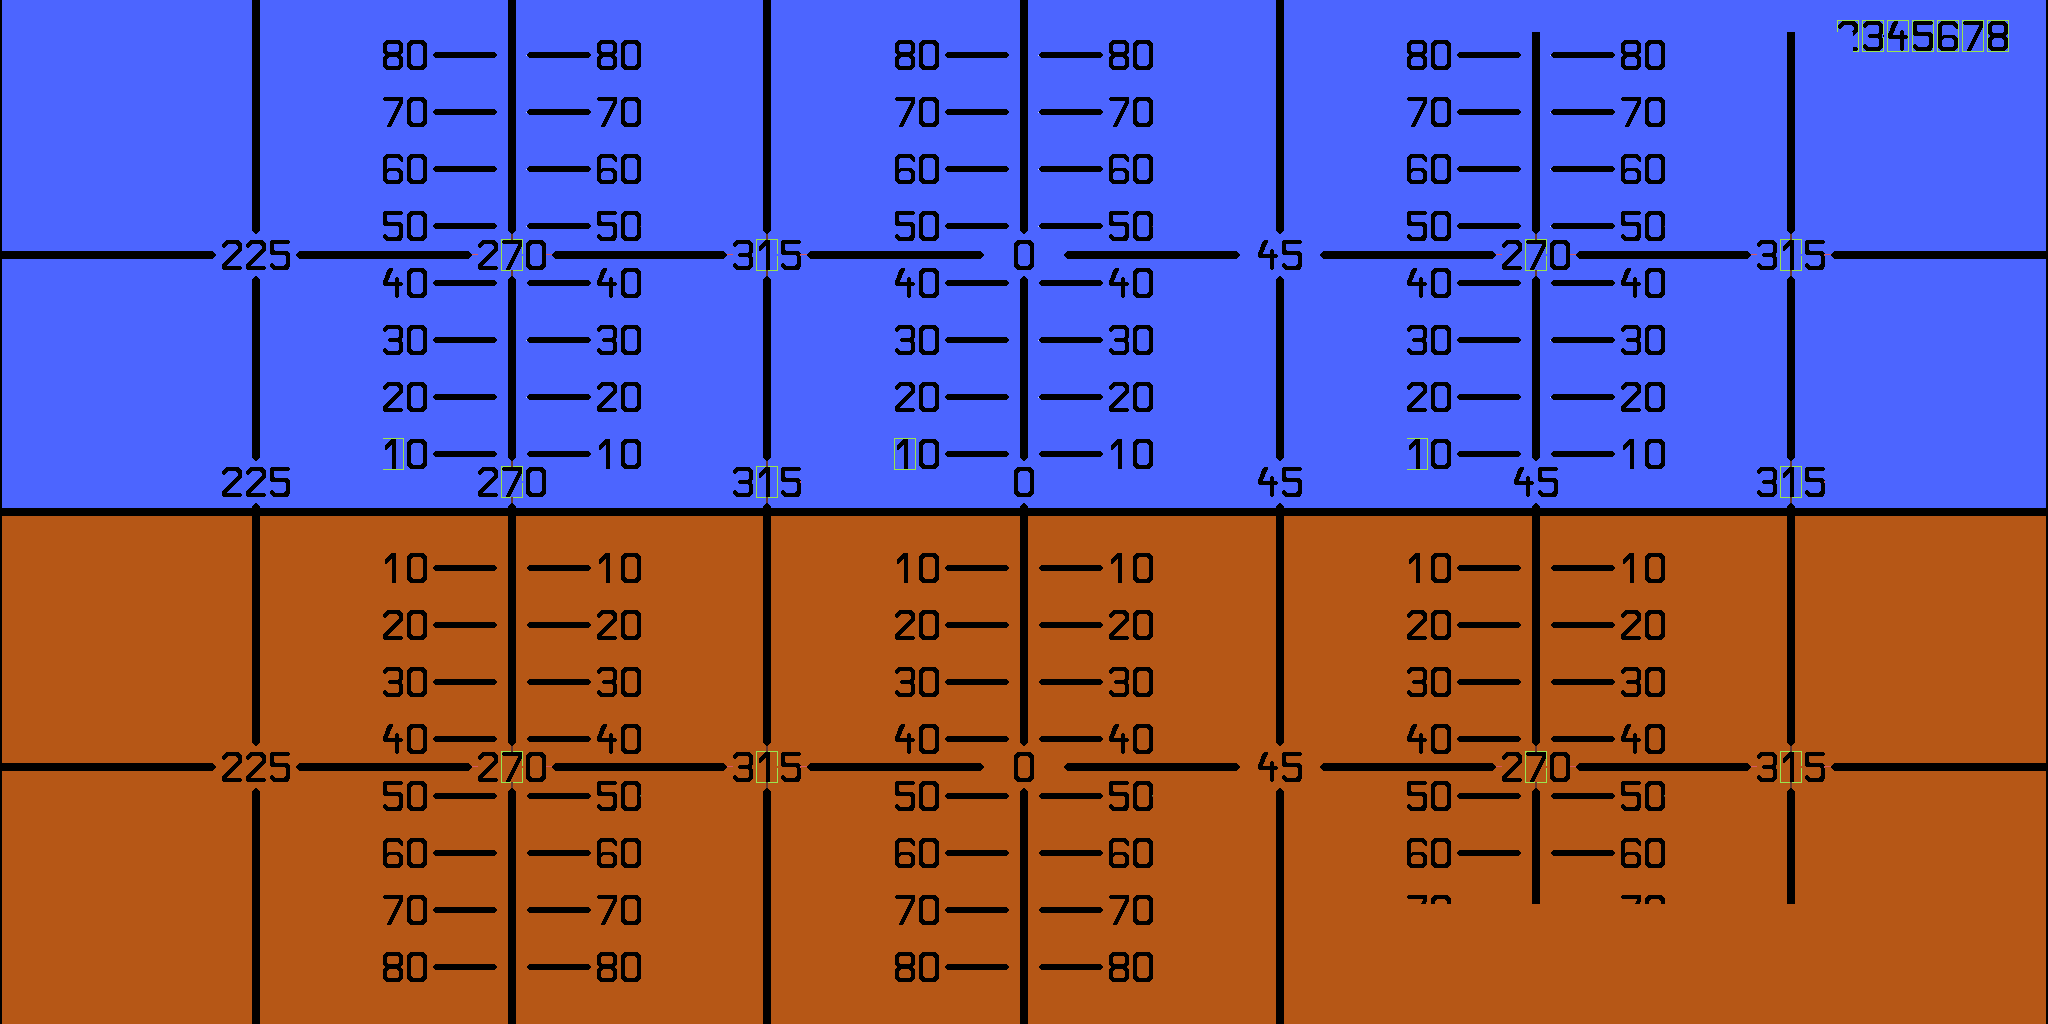
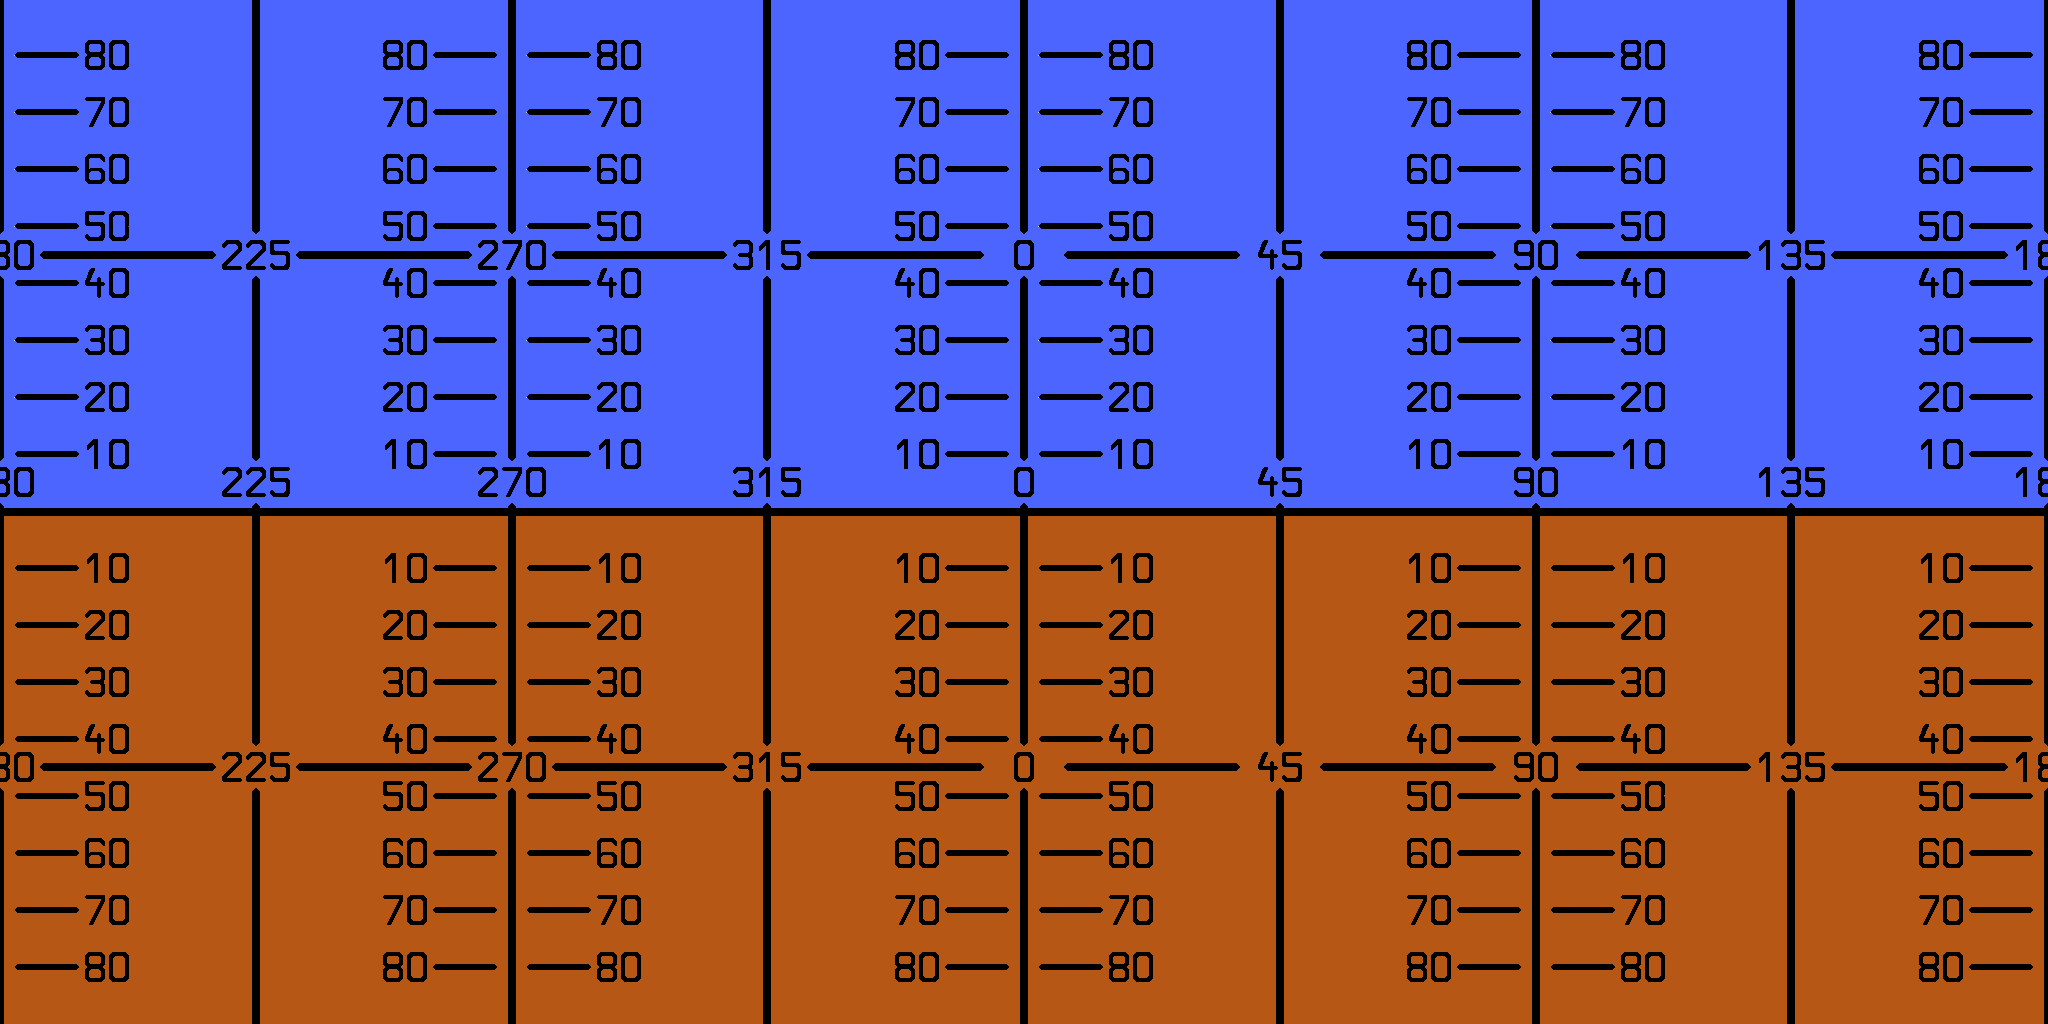
ai textures

diff --git a/main.js b/main.js
@@ -42,6 +42,14 @@ const attitudeIndicator = new THREE.Mesh(
     })
 );
 
+const heading = new THREE.Mesh( 
+    new THREE.SphereGeometry( 10.01, 64, 64 ),
+    new THREE.MeshBasicMaterial( {
+        map: new THREE.TextureLoader().load( "assets/heading.png" ),
+        transparent: true,
+    })
+)
+
 // const aiLight = new THREE.PointLight( 'white', 1 );
 // aiLight.position.set( 100, 0, 0 );
 
@@ -50,6 +58,7 @@ const attitudeIndicator = new THREE.Mesh(
 attitudeIndicatorCamera.position.set( 17, 0, 0 );
 
 attitudeIndicatorScene.add( attitudeIndicator );
+attitudeIndicatorScene.add( heading );
 const attitudeIndicatorControls = new OrbitControls( attitudeIndicatorCamera, attitudeIndicatorRenderer.domElement );
 attitudeIndicatorControls.update();
 // attitudeIndicatorControls.enabled = false;
@@ -115,6 +124,10 @@ function animate( timeStamp ) {
         
         controls.object.position.add(dbodyPos);
         controls.update();
+
+        attitudeIndicator.rotation.x += 0.01;
+        attitudeIndicator.rotation.y += 0.01;
+        attitudeIndicator.rotation.z += 0.01;
         
         renderer.render(scene, camera);
         attitudeIndicatorRenderer.render( attitudeIndicatorScene, attitudeIndicatorCamera );
